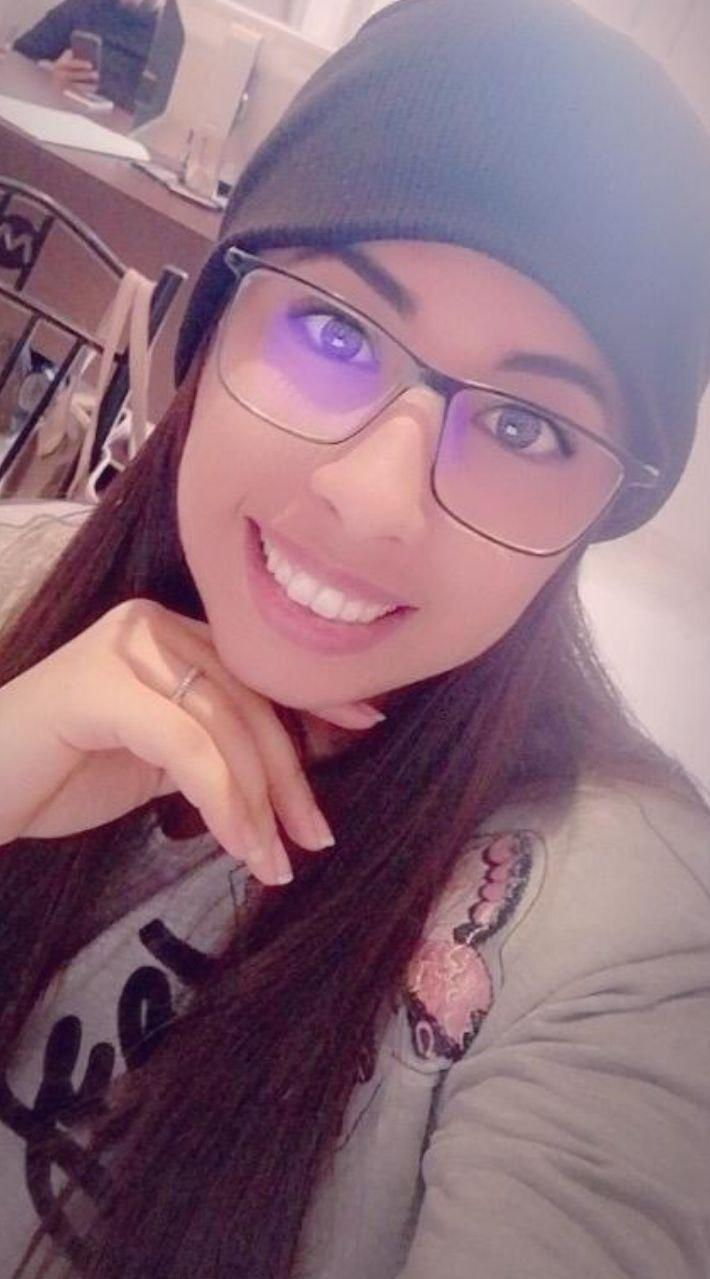
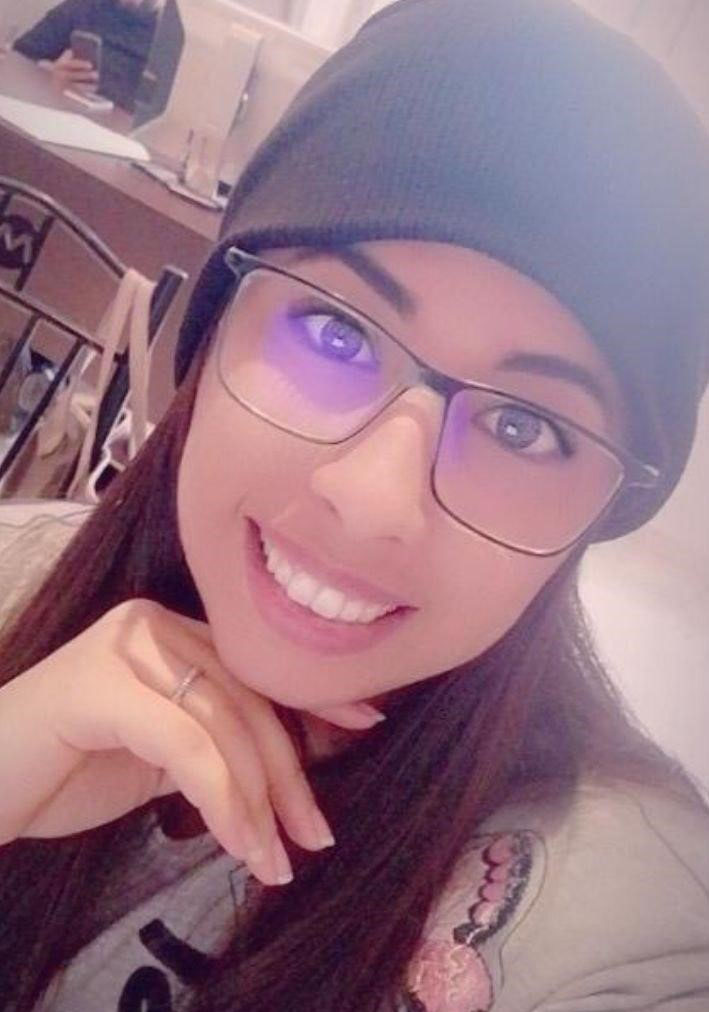
fix images size

diff --git a/src/style/style.css b/src/style/style.css
@@ -214,6 +214,8 @@ input,textarea{
 .About_pic_t img{
     height: 400px;
     object-fit: cover;
+    width: 380px !important;
+    margin: auto !important;
 
 }
 

diff --git a/About.php b/About.php
@@ -93,12 +93,12 @@
                                         <h4 class="text-center">M. BENCHAARA Hassan</h4>
                                         <h6 class="text-secondary text-center">direction generale</h6>
                                     </div>
-                                    <div class="w-75 w-lg-100 About_pic_t">
+                                    <div class=" w-lg-100 About_pic_t">
                                         <img class="rounded-lg w-100 shadow-lg" src="src/img/daniel-asaki-CG6Wo4Ac4uc-unsplash.jpg" alt="">
                                     </div>
                                 </div>
                                 <div class="d-flex justify-content-around flex-column align-items-center flex-lg-row m-5">     
-                                    <div class="w-75 w-lg-100 About_pic_t">
+                                    <div class=" w-lg-100 About_pic_t">
                                         <img class="rounded-lg w-100 shadow-lg" src="src/img/photo_2020-07-23_15-12-32.jpg" alt="">
                                     </div>
                                     <div class="bg-light w-100 w-lg-100 m-4 p-5 About_team  h-auto rounded">
@@ -127,12 +127,12 @@
                                         <h6 class="text-secondary text-center">port de jorf lasfar
                                         </h6>
                                     </div>
-                                    <div class="w-75 w-lg-100 About_pic_t">
+                                    <div class=" w-lg-100 About_pic_t">
                                         <img class="rounded-lg w-100 shadow-lg" src="src/img/photo_2020-07-23_16-08-00.jpg" alt="">
                                     </div>
                                 </div>
                                 <div class="d-flex justify-content-around flex-column align-items-center flex-lg-row m-5">     
-                                    <div class="w-75 w-lg-100 About_pic_t">
+                                    <div class=" w-lg-100 About_pic_t">
                                         <img class="rounded-lg w-100 shadow-lg" src="src/img/daniel-asaki-CG6Wo4Ac4uc-unsplash.jpg" alt="">
                                     </div>
                                     <div class="bg-light w-100 w-lg-100 m-4 p-5 About_team  h-auto rounded">
@@ -155,12 +155,12 @@
                                         <h6 class="text-secondary text-center">port de jorf lasfar
                                         </h6>
                                     </div>
-                                    <div class="w-75 w-lg-100 About_pic_t">
+                                    <div class=" w-lg-100 About_pic_t">
                                         <img class="rounded-lg w-100 shadow-lg" src="src/img/daniel-asaki-CG6Wo4Ac4uc-unsplash.jpg" alt="">
                                     </div>
                                 </div>
                                 <div class="d-flex justify-content-around flex-column align-items-center flex-lg-row m-5">     
-                                    <div class="w-75 w-lg-100 About_pic_t">
+                                    <div class=" w-lg-100 About_pic_t">
                                         <img class="rounded-lg w-100 shadow-lg" src="src/img/daniel-asaki-CG6Wo4Ac4uc-unsplash.jpg" alt="">
                                     </div>
                                     <div class="bg-light w-100 w-lg-100 m-4 p-5 About_team  h-auto rounded">
@@ -185,12 +185,12 @@
                                         <h6 class="text-secondary text-center">partement comptabilité
                                         </h6>
                                     </div>
-                                    <div class="w-75 w-lg-100 About_pic_t">
+                                    <div class=" w-lg-100 About_pic_t">
                                         <img class="rounded-lg w-100 shadow-lg" src="src/img/daniel-asaki-CG6Wo4Ac4uc-unsplash.jpg" alt="">
                                     </div>
                                 </div>
                                 <div class="d-flex justify-content-around flex-column align-items-center flex-lg-row m-5">     
-                                    <div class="w-100 w-lg-100 About_pic_t">
+                                    <div class=" w-lg-100 About_pic_t">
                                         <img class="rounded-lg w-100 shadow-lg" src="src/img/matheus-ferrero-pg_WCHWSdT8-unsplash.jpg" alt="">
                                     </div>
                                     <div class="bg-light w-100 w-lg-100 m-4 p-5 About_team  h-auto rounded">
@@ -215,7 +215,7 @@
 
                                         </h6>
                                     </div>
-                                    <div class="w-75 w-lg-100 About_pic_t">
+                                    <div class=" w-lg-100 About_pic_t">
                                         <img class="rounded-lg w-100 shadow-lg" src="src/img/daniel-asaki-CG6Wo4Ac4uc-unsplash.jpg" alt="">
                                     </div>
                                 </div>

diff --git a/Contact.php b/Contact.php
@@ -52,15 +52,9 @@
           <div class="bg-shadow d-flex justify-content-around flex-wrap p-5">
             <div class="title-contact text-white  w-50 w-md-100">
                 <h1 class="p-2 m-0">Contact us </h1>
-                <p class="mt-4 w-75">For informations please contact us on the following numbers<br>
+                <p class="mt-4 w-75">For informations please contact us on the following numbers:<br>
                 - Casablanca : +212522443333 <br>
                 - El Jadida(Jorf lasfar) : +212523348803 
- 
-
-
-
-
-                    
                 </p>
   
             </div>
